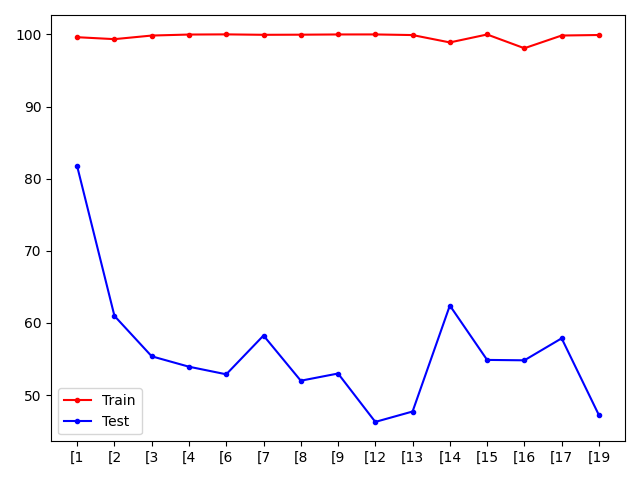
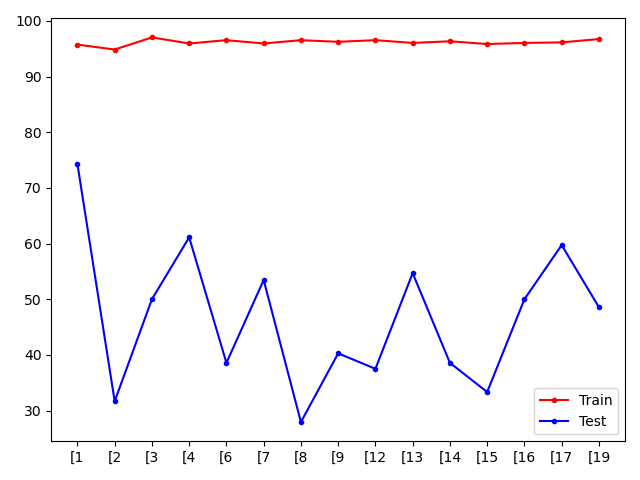
Updated

diff --git a/mat2h5Conversion.py b/mat2h5Conversion.py
@@ -78,6 +78,7 @@ def generate_data(data_type):
     f_data.create_dataset("label",   (n_samples,))
     f_data.create_dataset("subject", (n_samples,))
     f_data.create_dataset("trial",   (n_samples,))
+    f_data.create_dataset("condition",   (n_samples,))
 
     f = h5py.File(path,'r')
 
@@ -98,8 +99,15 @@ def generate_data(data_type):
                     else:
                         f_data["data"][u,...] = eeg_norm
                     f_data["subject"][u]  = subject
-                    f_data["label"][u]    = condition - 2
+                    if config.realVSFake:
+                       if condition == 0 or condition == 1:
+                          f_data["label"][u]    = 0
+                       else:
+                          f_data["label"][u]    = 1
+                    else:
+                       f_data["label"][u]    = condition - 2
                     f_data["trial"][u]    = i_trial
+                    f_data["condition"][u]    = condition
                     u += 1
     f_data.close()
 

diff --git a/utils/config.py b/utils/config.py
@@ -14,6 +14,7 @@ class Config:
           self.preprocess_scale = False
           self.device       = 'cuda:0'
           self.apply_valid_set = False
+          self.realVSFake   = True
 
 
           # Majority Voting Properties
@@ -43,7 +44,10 @@ class Config:
           self.all_subjects    = np.array([1,2,3,4,6,7,8,9,12,13,14,15,16,17,19])
           self.valid_subjects  = []
           self.test_subjects   = []
-          self.conditions      = [2,3]
+          if self.realVSFake:
+             self.conditions      = [0,1,2,3]
+          else:
+             self.conditions      = [2,3]
 
           if model == 'capsnet':
             # CNN (cnn)
